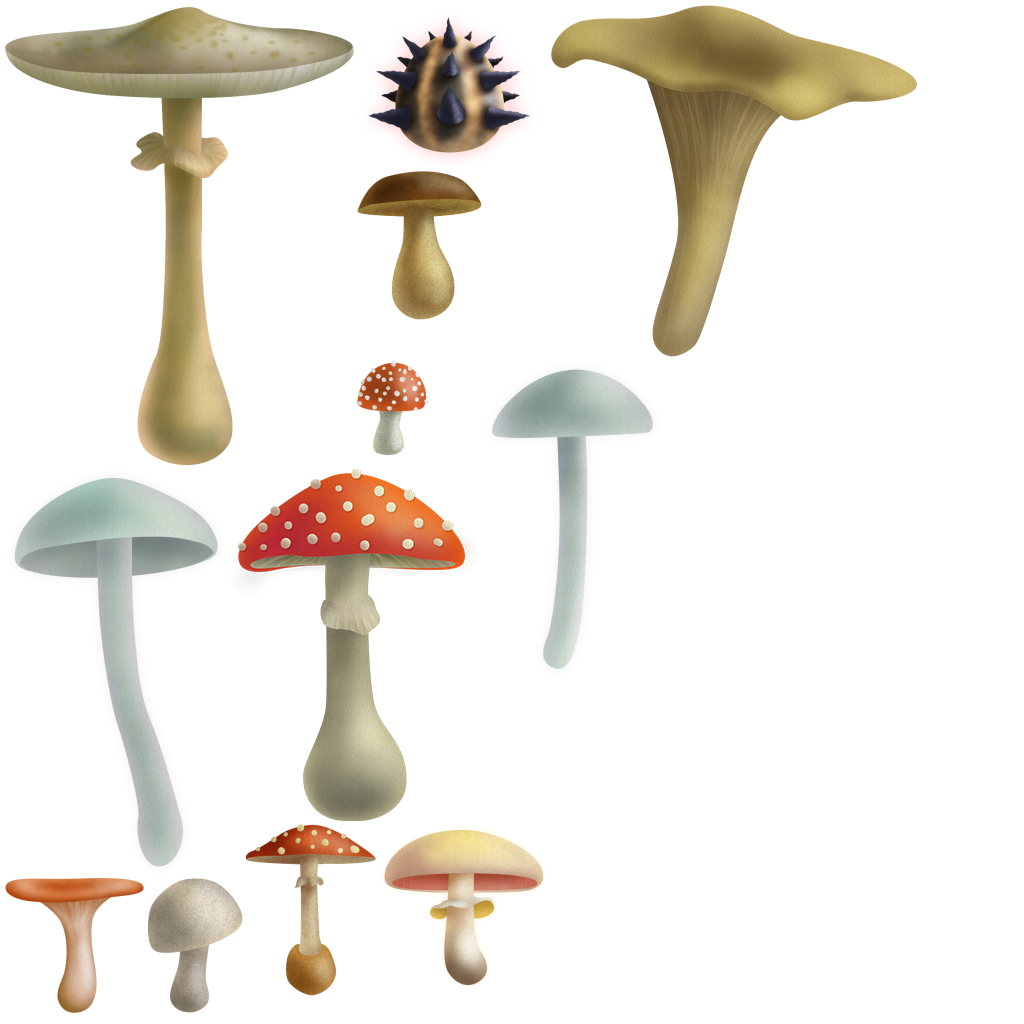
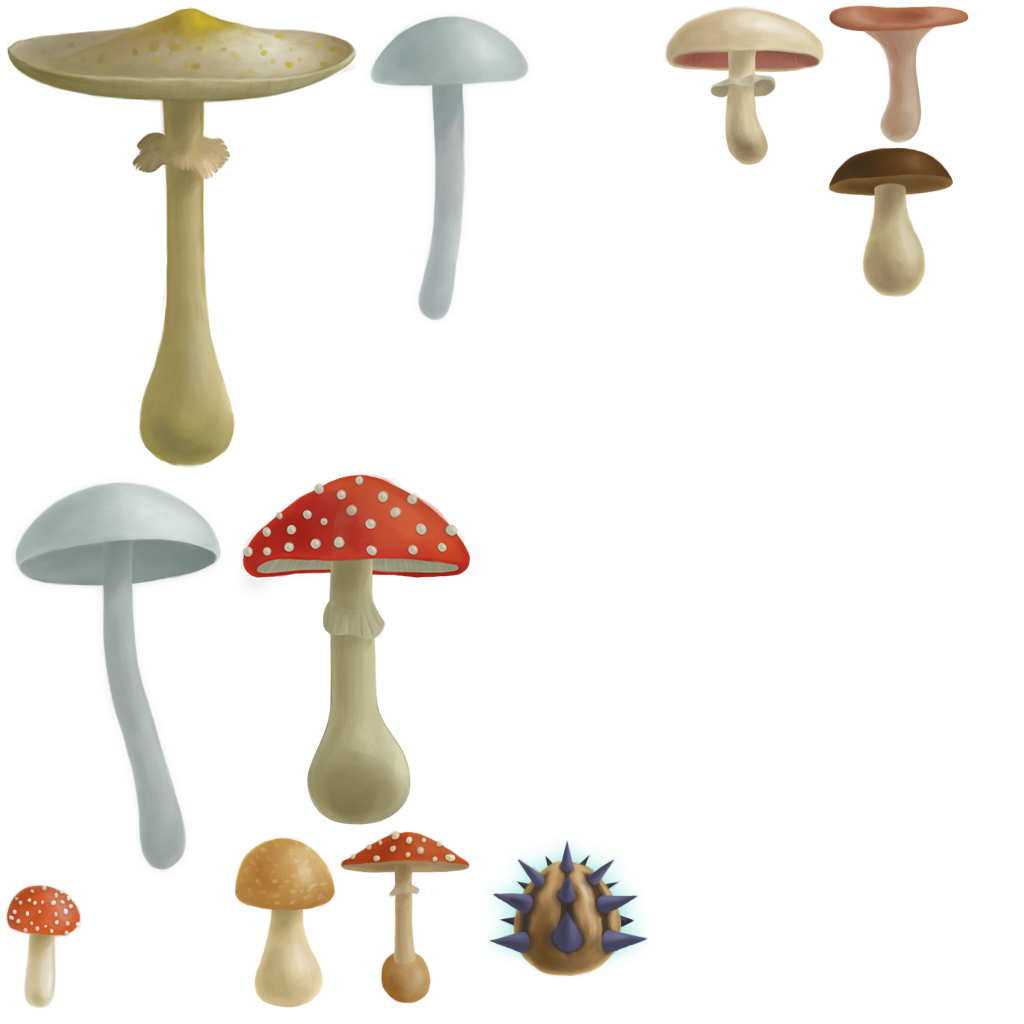
morka:polishing graphics style

Changed region(s): [[0.0, 0.0, 0.9375, 1.0], [0.4688, 0.3438, 0.6562, 0.6562], [0.125, 0.6562, 0.1562, 0.7188]]

diff --git a/dgreed/apps/morka/worldgen.c b/dgreed/apps/morka/worldgen.c
@@ -27,7 +27,7 @@ static void _gen_bg_page(void) {
 		mchains_symbol_info(bg_chain, sym, &advance, &spr);
 
 		if(spr) {
-			Vector2 pos = vec2(bg_page_cursor + bg_x + 100.0f, 483.0f);
+			Vector2 pos = vec2(bg_page_cursor + bg_x + 100.0f, 500.0f);
 			objects_create(&obj_deco_desc, pos, (void*)spr);
 		}
 
@@ -55,7 +55,7 @@ static void _gen_fg_page(void) {
 		mchains_symbol_info(fg_chain, sym, &advance, &spr);
 
 		if(spr) {
-			Vector2 pos = vec2(fg_page_cursor + fg_x + 100.0f, 583.0f);
+			Vector2 pos = vec2(fg_page_cursor + fg_x + 100.0f, 580.0f);
 			GameObject* g = objects_create(&obj_mushroom_desc, pos, (void*)spr);
 			ObjMushroom* shroom = (ObjMushroom*)g;
 			if(sym == 'x')

diff --git a/dgreed/apps/morka/obj_deco.c b/dgreed/apps/morka/obj_deco.c
@@ -18,7 +18,7 @@ static void obj_deco_construct(GameObject* self, Vector2 pos, void* user_data) {
 	RenderComponent* render = self->render;
 	render->world_dest = dest;
 	render->layer = 1;
-	render->color = COLOR_RGBA(202, 207, 255, 255);
+	render->color = COLOR_RGBA(255, 255, 255, 255);
 	render->camera = 1;
 	render->anim_frame = MAX_UINT16;
 	render->spr = spr_handle;
